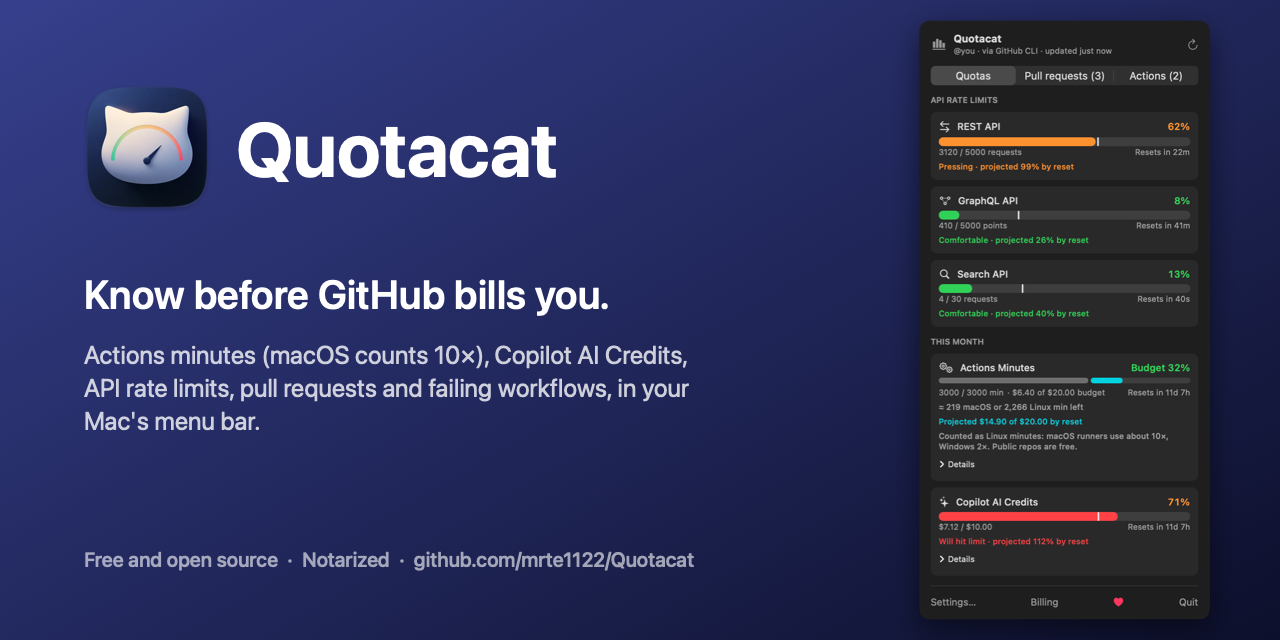
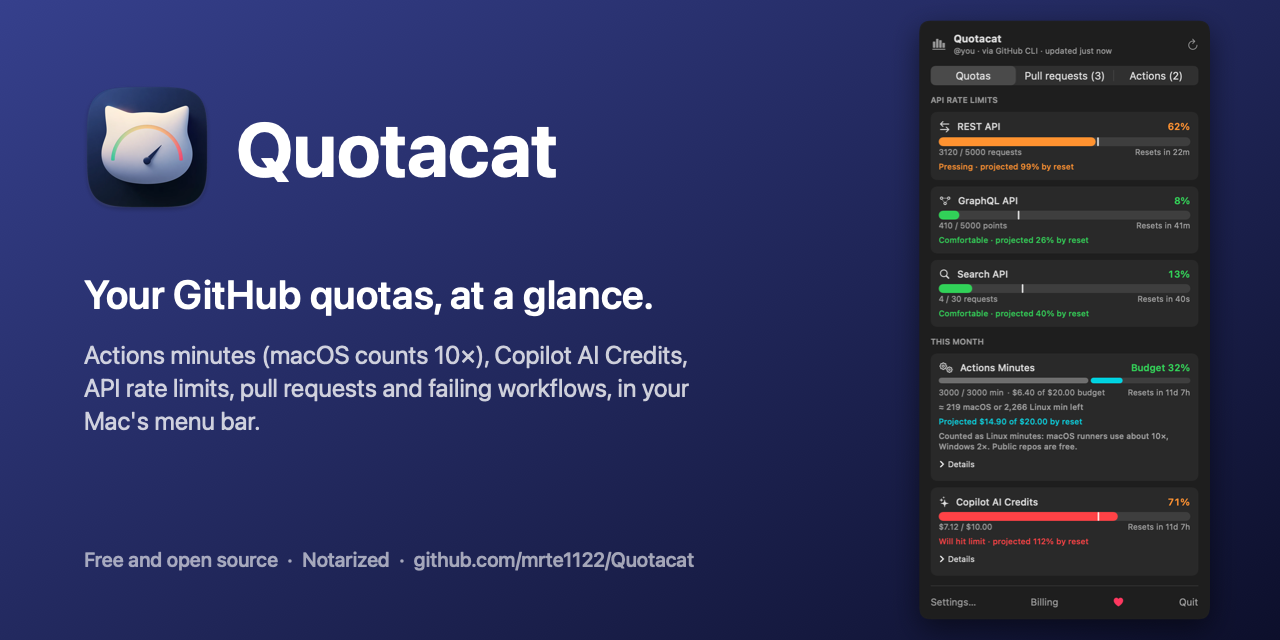
Social preview: "Your GitHub quotas, at a glance."

Changed region(s): [[0.0625, 0.4375, 0.5, 0.5]]

diff --git a/scripts/make-social-preview.swift b/scripts/make-social-preview.swift
@@ -34,7 +34,7 @@ func text(_ s: String, size: CGFloat, weight: NSFont.Weight, alpha: CGFloat = 1,
 // Left column: icon, name, pitch.
 icon.draw(in: NSRect(x: 72, y: H - 72 - 150, width: 150, height: 150))
 text("Quotacat", size: 76, weight: .bold, at: NSPoint(x: 236, y: H - 104))
-text("Know before GitHub bills you.", size: 40, weight: .semibold, at: NSPoint(x: 84, y: H - 270))
+text("Your GitHub quotas, at a glance.", size: 40, weight: .semibold, at: NSPoint(x: 84, y: H - 270))
 text("Actions minutes (macOS counts 10×), Copilot AI Credits, API rate limits, pull requests and failing workflows, in your Mac's menu bar.",
      size: 25, weight: .regular, alpha: 0.78, at: NSPoint(x: 84, y: H - 340), width: 620)
 text("Free and open source  ·  Notarized  ·  github.com/mrte1122/Quotacat", size: 20, weight: .medium, alpha: 0.6,
